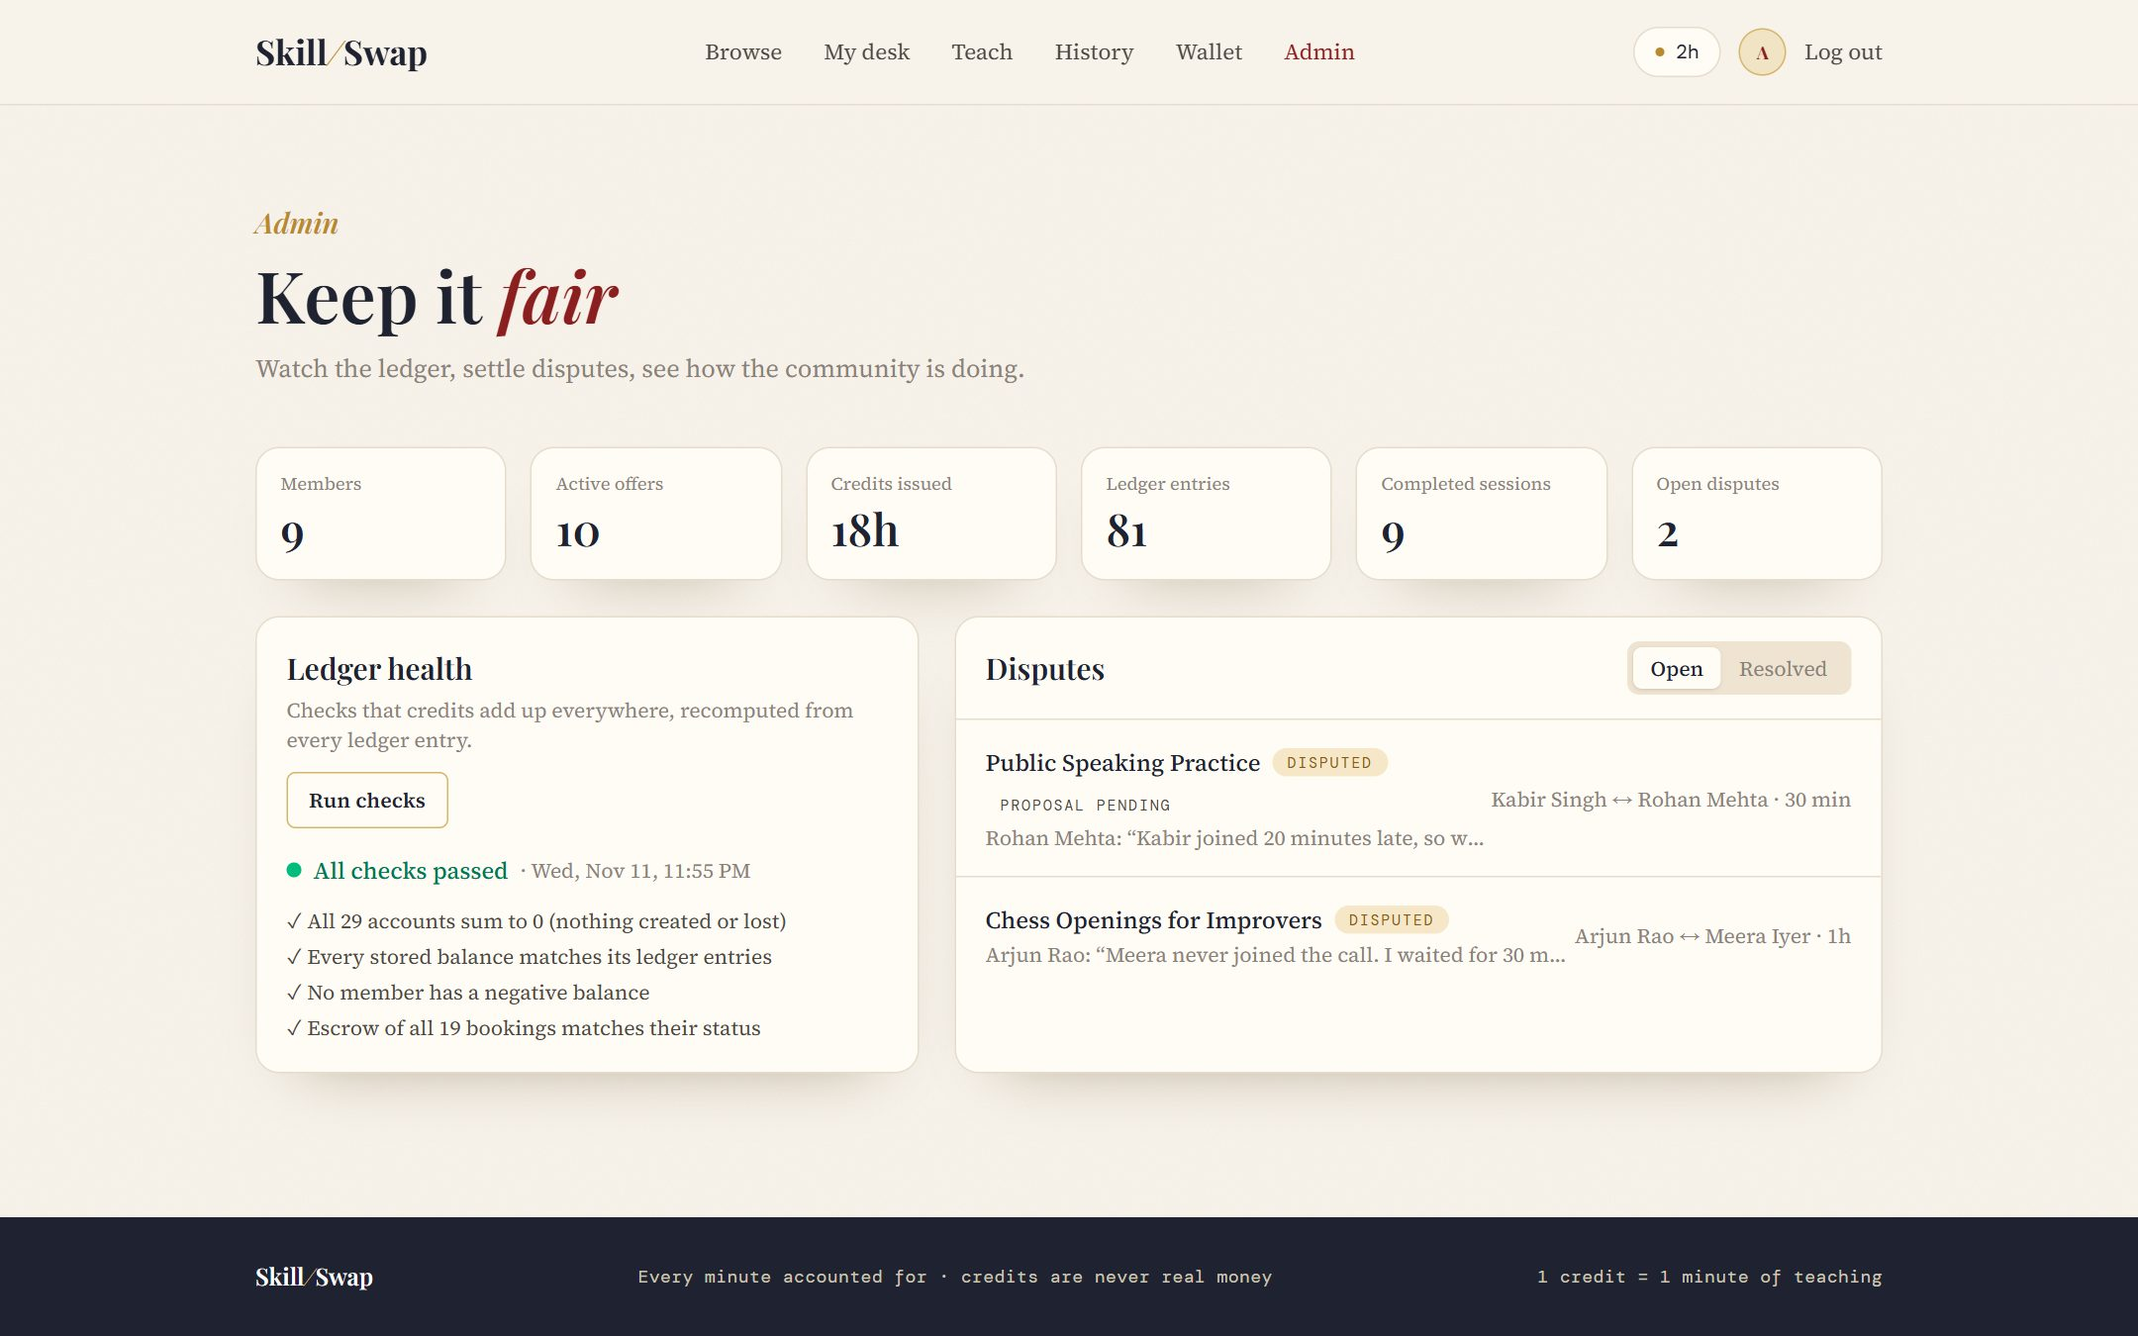
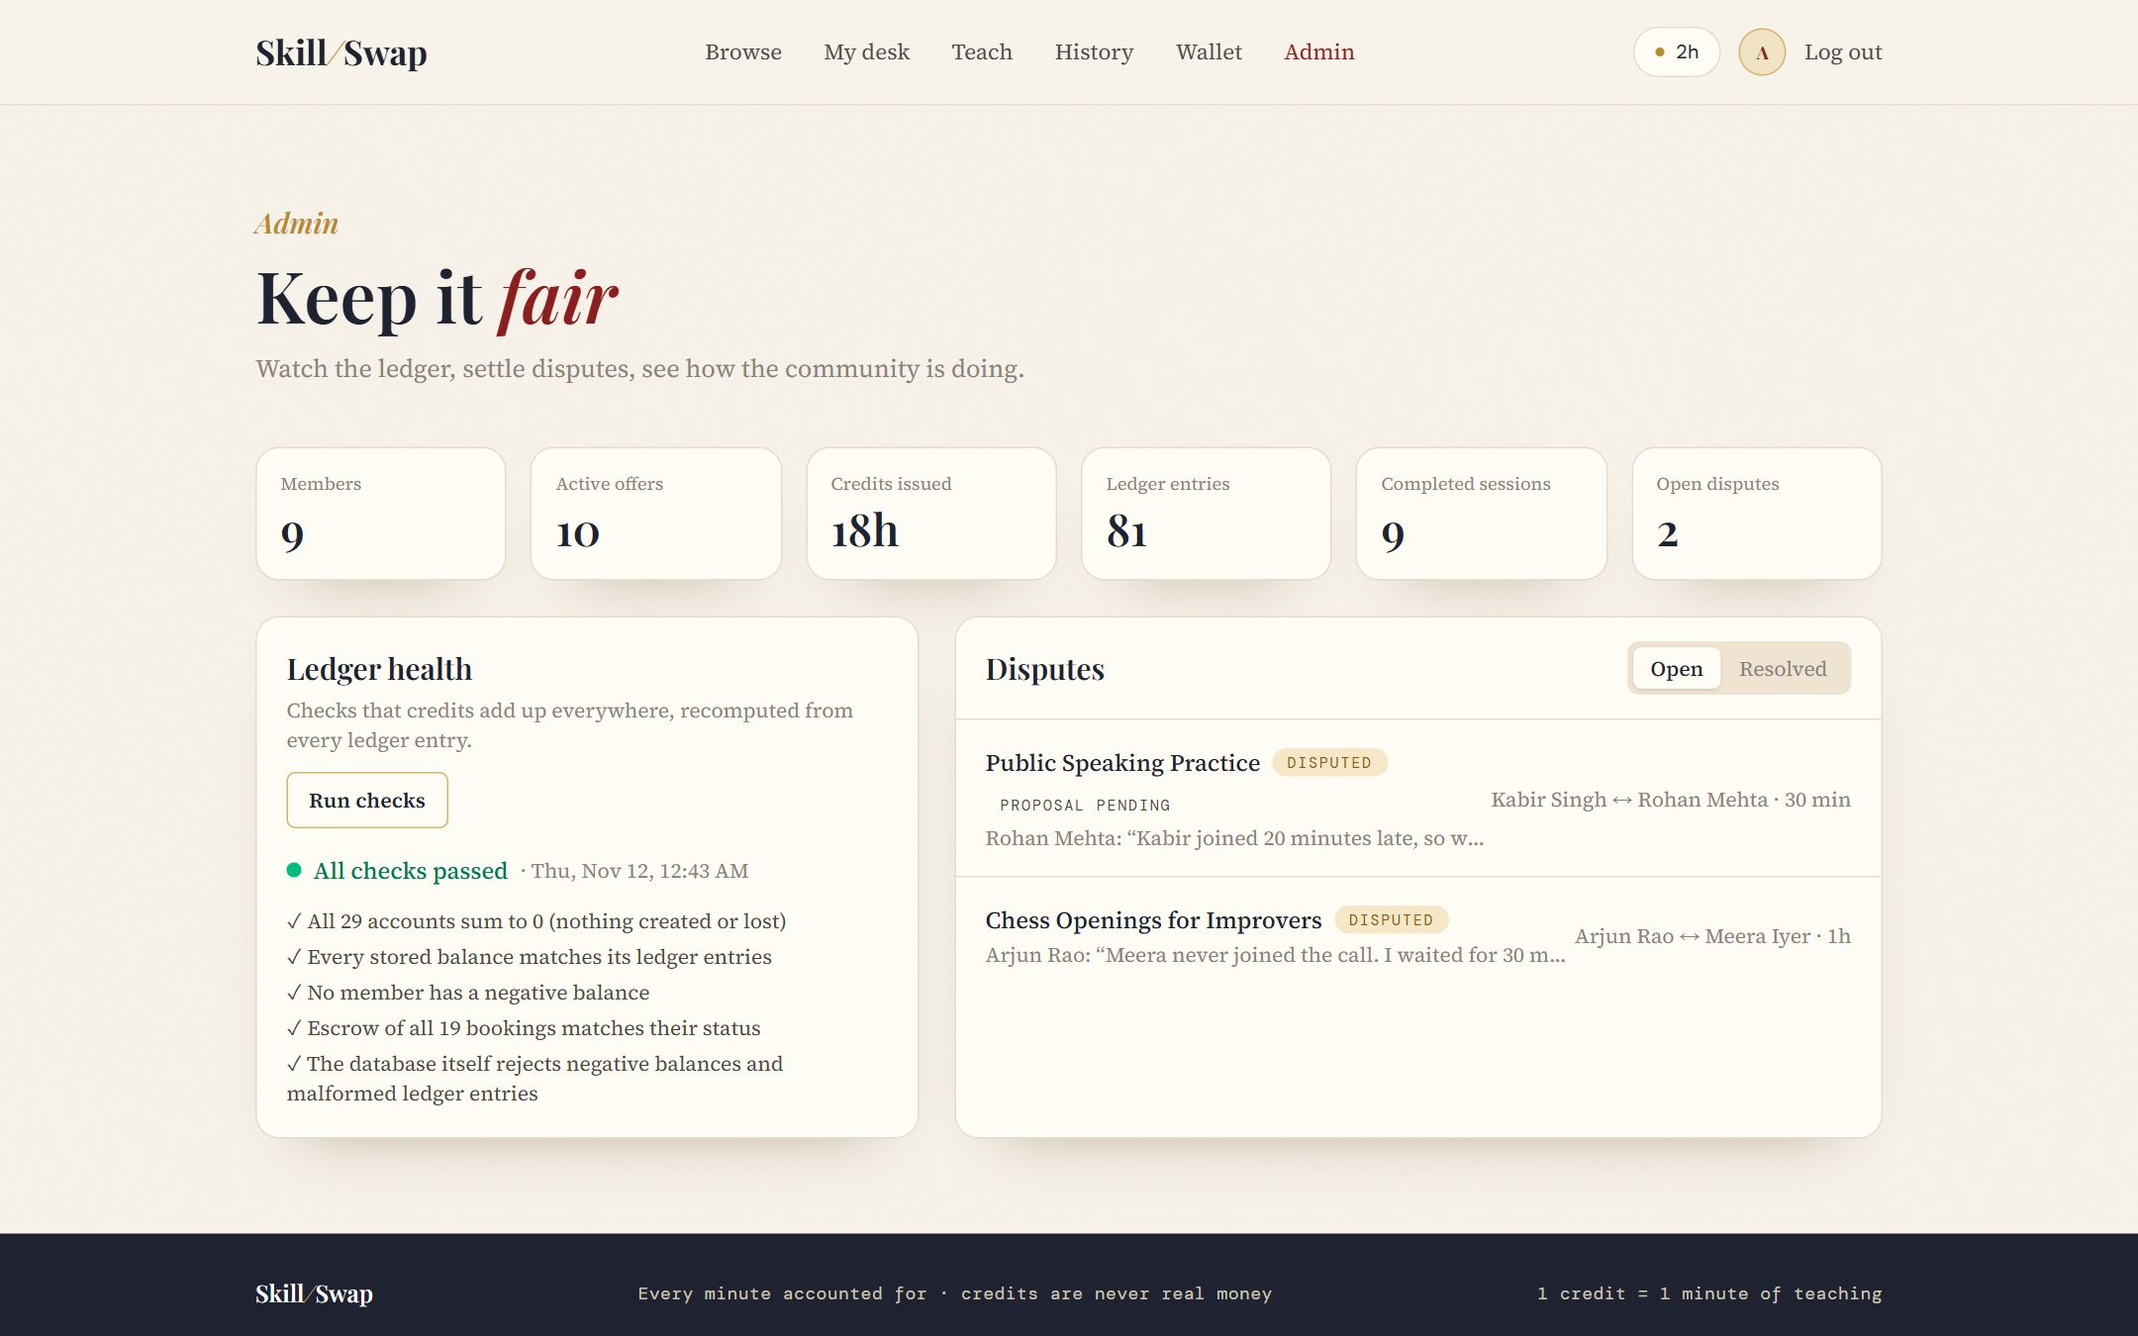
Enforce ledger rules at the database level with MongoDB schema validators

diff --git a/server/tests/dbRules.test.js b/server/tests/dbRules.test.js
@@ -1,0 +1,86 @@
+import mongoose from 'mongoose';
+import { describe, expect, it } from 'vitest';
+import { applyDbRules, checkDbRules } from '../src/dbRules.js';
+import { Account } from '../src/models/index.js';
+import { fullHealthReport } from '../src/services/invariants.js';
+import { MINT, postTransaction, userAccount } from '../src/services/ledger.js';
+
+// These tests use the raw MongoDB driver, skipping Mongoose and all of our
+// app's checks, to prove the DATABASE refuses bad data on its own.
+const db = () => mongoose.connection.db;
+const accounts = () => db().collection('accounts');
+const entries = () => db().collection('ledgerentries');
+
+const VALIDATION_FAILED = { code: 121 }; // MongoDB "Document failed validation"
+
+function entry(overrides = {}) {
+  return { txKey: 'tx:1', type: 'SIGNUP_GRANT', account: 'user:a', amount: 60, createdAt: new Date(), ...overrides };
+}
+
+describe('database-level rules', () => {
+  it('are installed on both collections', async () => {
+    expect(await checkDbRules()).toEqual({ ok: true, collections: { accounts: true, ledgerentries: true } });
+  });
+
+  it('refuse a negative user or escrow balance, even written directly', async () => {
+    await expect(accounts().insertOne({ _id: 'user:a', balance: -5 })).rejects.toMatchObject(VALIDATION_FAILED);
+    await expect(accounts().insertOne({ _id: 'escrow:b', balance: -1 })).rejects.toMatchObject(VALIDATION_FAILED);
+  });
+
+  it('refuse an update that would push a balance below zero', async () => {
+    await accounts().insertOne({ _id: 'user:a', balance: 10 });
+    await expect(accounts().updateOne({ _id: 'user:a' }, { $inc: { balance: -11 } })).rejects.toMatchObject(VALIDATION_FAILED);
+    expect((await accounts().findOne({ _id: 'user:a' })).balance).toBe(10);
+  });
+
+  it('allow the mint to go negative', async () => {
+    await accounts().insertOne({ _id: MINT, balance: -120 });
+    expect((await accounts().findOne({ _id: MINT })).balance).toBe(-120);
+  });
+
+  it('refuse balances that are not whole minutes, and unknown account names', async () => {
+    await expect(accounts().insertOne({ _id: 'user:a', balance: 1.5 })).rejects.toMatchObject(VALIDATION_FAILED);
+    await expect(accounts().insertOne({ _id: 'wallet:a', balance: 5 })).rejects.toMatchObject(VALIDATION_FAILED);
+  });
+
+  it('refuse malformed ledger entries', async () => {
+    await expect(entries().insertOne(entry({ amount: 0 }))).rejects.toMatchObject(VALIDATION_FAILED);
+    await expect(entries().insertOne(entry({ amount: 2.5 }))).rejects.toMatchObject(VALIDATION_FAILED);
+    await expect(entries().insertOne(entry({ amount: '60' }))).rejects.toMatchObject(VALIDATION_FAILED);
+    await expect(entries().insertOne(entry({ type: 'FREE_MONEY' }))).rejects.toMatchObject(VALIDATION_FAILED);
+    await expect(entries().insertOne(entry({ account: 'nobody' }))).rejects.toMatchObject(VALIDATION_FAILED);
+    const { txKey, ...noKey } = entry();
+    await expect(entries().insertOne(noKey)).rejects.toMatchObject(VALIDATION_FAILED);
+    expect(await entries().countDocuments()).toBe(0);
+  });
+
+  it('accept everything the app writes normally', async () => {
+    const alice = userAccount('alice');
+    await postTransaction({ key: 'grant:alice', type: 'SIGNUP_GRANT', legs: [{ account: MINT, amount: -120 }, { account: alice, amount: 120 }] });
+    expect(await entries().countDocuments()).toBe(2);
+    expect((await accounts().findOne({ _id: alice })).balance).toBe(120);
+  });
+
+  it('are added to existing collections that were created without them', async () => {
+    await db().command({ collMod: 'accounts', validator: {} });
+    expect((await checkDbRules()).collections.accounts).toBe(false);
+
+    await applyDbRules();
+    expect((await checkDbRules()).ok).toBe(true);
+    await expect(accounts().insertOne({ _id: 'user:a', balance: -5 })).rejects.toMatchObject(VALIDATION_FAILED);
+  });
+
+  it('are installed even if Mongoose creates the collection at the same moment', async () => {
+    // On a brand-new database Mongoose creates collections by itself while
+    // connecting, racing with applyDbRules. The rules must still end up on.
+    await accounts().drop();
+    await Promise.all([Account.createCollection(), applyDbRules()]);
+    expect((await checkDbRules()).ok).toBe(true);
+  });
+
+  it('show up in the admin health report', async () => {
+    const report = await fullHealthReport();
+    expect(report.ok).toBe(true);
+    expect(report.dbRules.ok).toBe(true);
+  });
+});

diff --git a/server/src/dbRules.js b/server/src/dbRules.js
@@ -1,0 +1,79 @@
+import mongoose from 'mongoose';
+import { LEDGER_TYPES } from './models/LedgerEntry.js';
+
+/**
+ * Rules the DATABASE itself enforces, on top of the checks in our code.
+ *
+ * Mongoose schemas only protect writes that go through this app. These
+ * MongoDB "schema validators" ($jsonSchema) protect every write, even one
+ * made directly in the database (Atlas UI, a script, a bug elsewhere).
+ * A write that breaks a rule fails with error code 121.
+ *
+ * Note: validators check what a document LOOKS like. They can't forbid
+ * changing or deleting a valid ledger entry; that is handled by the app
+ * (append-only hooks) and caught by the invariant checks.
+ */
+const WHOLE_NUMBER = ['int', 'long'];
+
+export const DB_RULES = {
+  // Account balances: whole minutes, never negative (except the mint, whose
+  // balance is minus everything ever issued).
+  accounts: {
+    $jsonSchema: {
+      bsonType: 'object',
+      required: ['_id', 'balance'],
+      properties: {
+        _id: { bsonType: 'string', pattern: '^(mint|user:.+|escrow:.+)$' },
+        balance: { bsonType: WHOLE_NUMBER },
+      },
+      anyOf: [{ properties: { _id: { enum: ['mint'] } } }, { properties: { balance: { minimum: 0 } } }],
+    },
+  },
+  // Ledger entries: a known type, a valid account, a whole non-zero amount.
+  ledgerentries: {
+    $jsonSchema: {
+      bsonType: 'object',
+      required: ['txKey', 'type', 'account', 'amount', 'createdAt'],
+      properties: {
+        txKey: { bsonType: 'string', minLength: 1 },
+        type: { enum: LEDGER_TYPES },
+        account: { bsonType: 'string', pattern: '^(mint|user:.+|escrow:.+)$' },
+        amount: { bsonType: WHOLE_NUMBER, not: { enum: [0] } },
+        createdAt: { bsonType: 'date' },
+      },
+    },
+  },
+};
+
+const OPTIONS = { validationLevel: 'strict', validationAction: 'error' };
+
+/**
+ * Install the rules. New collections are created with them; existing ones
+ * are updated with collMod. collMod needs a database user with admin rights
+ * on the database (e.g. Atlas "Atlas admin"); without them we log a warning
+ * and the app keeps running with its own checks.
+ */
+export async function applyDbRules(db = mongoose.connection.db) {
+  for (const [name, validator] of Object.entries(DB_RULES)) {
+    try {
+      try {
+        await db.createCollection(name, { validator, ...OPTIONS });
+      } catch (err) {
+        // 48 = the collection already exists (from an earlier run, or Mongoose
+        // created it a moment ago while connecting): add the rules to it.
+        if (err.code !== 48) throw err;
+        await db.command({ collMod: name, validator, ...OPTIONS });
+      }
+    } catch (err) {
+      console.warn(`Could not install database rules on "${name}": ${err.message}`);
+    }
+  }
+}
+
+/** Which collections currently have the rules installed (for the admin check). */
+export async function checkDbRules(db = mongoose.connection.db) {
+  const infos = await db.listCollections({ name: { $in: Object.keys(DB_RULES) } }).toArray();
+  const active = Object.fromEntries(Object.keys(DB_RULES).map((name) => [name, false]));
+  for (const info of infos) active[info.name] = Boolean(info.options?.validator?.$jsonSchema);
+  return { ok: Object.values(active).every(Boolean), collections: active };
+}

diff --git a/server/src/services/invariants.js b/server/src/services/invariants.js
@@ -1,5 +1,6 @@
 import { Booking, Dispute, LedgerEntry, Offer, User } from '../models/index.js';
 import { OPEN_BOOKING_STATUSES } from '../models/Booking.js';
+import { checkDbRules } from '../dbRules.js';
 import { MINT, checkInvariants, escrowAccount, getBalance } from './ledger.js';
 
 /**
@@ -25,8 +26,10 @@ export async function checkEscrow() {
 }
 
 export async function fullHealthReport() {
-  const [ledger, escrow] = await Promise.all([checkInvariants(), checkEscrow()]);
-  return { ok: ledger.ok && escrow.ok, checkedAt: new Date(), ledger, escrow };
+  const [ledger, escrow, dbRules] = await Promise.all([checkInvariants(), checkEscrow(), checkDbRules()]);
+  // dbRules is extra protection, reported separately: the data can be
+  // perfectly correct without it, so it doesn't change `ok`.
+  return { ok: ledger.ok && escrow.ok, checkedAt: new Date(), ledger, escrow, dbRules };
 }
 
 export async function platformStats() {

diff --git a/client/src/pages/Admin.jsx b/client/src/pages/Admin.jsx
@@ -33,6 +33,12 @@ function HealthCard() {
             <li>✓ Every stored balance matches its ledger entries</li>
             <li>✓ No member has a negative balance</li>
             <li>✓ Escrow of all {data.escrow.bookingsChecked} bookings matches their status</li>
+            {data.dbRules &&
+              (data.dbRules.ok ? (
+                <li>✓ The database itself rejects negative balances and malformed ledger entries</li>
+              ) : (
+                <li className="text-muted">○ Database-level rules aren&apos;t installed; the app&apos;s own checks still apply</li>
+              ))}
           </ul>
           {[...data.ledger.problems, ...data.escrow.problems].map((p) => (
             <p key={p} className="mt-2 rounded bg-rose-50 px-3 py-2 font-mono text-xs text-rose-700">

diff --git a/server/src/db.js b/server/src/db.js
@@ -1,9 +1,12 @@
 import mongoose from 'mongoose';
 import './models/index.js';
+import { applyDbRules } from './dbRules.js';
 
 // Build collections and indexes up front. Our safety guarantees depend on
 // unique indexes, and MongoDB transactions can't create them on the fly.
 export async function initModels() {
+  // Database-level rules first, so new collections are created with them.
+  await applyDbRules();
   await Promise.all(Object.values(mongoose.models).map((model) => model.init()));
 }
 

diff --git a/docs/DAILY_LOG.md b/docs/DAILY_LOG.md
@@ -119,3 +119,22 @@ All pages in the browser at desktop and phone width. Fixed: every menu link show
 - In the browser with two users in two tabs: join, wait, connect (WebRTC reported *connected*), attendance recorded, leave, rejoin.
 - **Real devices on the live site:** a phone on mobile data and a laptop on Wi-Fi saw and heard each other; the server recorded both joining at the same second and leaving a minute later. This connected directly, without a TURN relay.
 - Not yet tested: a strict network (office or college Wi-Fi) that blocks direct connections and needs a TURN relay.
+
+## Day 6: Rules the database enforces itself
+
+**Goal:** close the classic "MongoDB isn't strict enough for money" gap by moving key ledger rules from the app into the database.
+
+### Built
+- **Schema validators** (`server/src/dbRules.js`): MongoDB `$jsonSchema` rules on `accounts` (whole-minute balances, never negative except the mint, valid account names) and `ledgerentries` (known type, valid account, whole non-zero amount, required fields). A write that breaks them fails with error 121, even when it skips the app entirely.
+- Installed on startup: created with new collections, added to existing ones with `collMod`. Without permission for `collMod` the server logs a warning and keeps running.
+- **Admin health check** now reports whether the database rules are on.
+- README screenshots refreshed with the new design (7 pages).
+
+### Fixed while testing
+- On a brand-new database the accounts rule was silently missing: Mongoose creates collections by itself while connecting, so it could create `accounts` between our "does it exist?" check and our create. Now "already exists" falls back to `collMod`, with a test for the race.
+
+### Limits (on purpose)
+Validators check what a document looks like, not whether it was changed. Editing or deleting a valid ledger entry is still blocked by the app, not the database, and the invariant checks would detect it.
+
+### Tests: 78 passing
+10 new tests write straight to MongoDB with the raw driver (skipping Mongoose) and confirm the database refuses bad data, while everything the app writes normally is still accepted.

diff --git a/README.md b/README.md
@@ -57,6 +57,7 @@ Both confirm attendance      escrow:b1        −60
 | No double payouts on retry | Each transaction has a unique key (`settle:<bookingId>`) backed by a unique index |
 | No overdraft under concurrency | Balance check and subtraction are one atomic conditional update inside the transaction |
 | All or nothing | Ledger entries and the related status change commit in one MongoDB transaction |
+| Rules hold even outside the app | MongoDB schema validators (`$jsonSchema`) make the database itself reject negative balances, fractional or zero amounts and unknown entry types, even for writes that bypass the app |
 
 ### Race conditions handled (each one has a test)
 
@@ -157,7 +158,7 @@ Other members: `priya`, `daniel`, `kabir`, `sara`, `arjun` (all `@skillswap.test
 npm test
 ```
 
-68 tests run against a real MongoDB replica set started in memory:
+78 tests run against a real MongoDB replica set started in memory:
 
 - **Ledger:** balanced legs, integer amounts, idempotency under 10 simultaneous retries, overdraft protection under parallel spends, append-only enforcement, tamper detection
 - **Bookings:** escrow hold, five learners racing for one slot, rollback when credits are short, simultaneous confirmations settle once, all cancellation rules and races
@@ -165,6 +166,7 @@ npm test
 - **API and realtime:** full HTTP flow, validation, authorization, Socket.IO notifications and auth
 - **Video calls:** time window, access control, attendance maths, and real two-client signaling over Socket.IO
 - **Community:** taught counts, member picks, new offers, category filter, homepage stats and recent swaps
+- **Database rules:** raw writes that skip the app (negative balances, bad amounts, unknown types) are rejected by MongoDB itself, and the rules are installed on new and existing collections
 - **Demo data:** every scenario seeds correctly and leaves the ledger healthy
 
 ## API

diff --git a/docs/DEPLOYMENT.md b/docs/DEPLOYMENT.md
@@ -58,6 +58,15 @@ Every push to `main` redeploys automatically.
 - Put the live link at the top of the README (replace "_coming soon_").
 - Log in as `admin@skillswap.test` and click **Run checks** on the Admin page. It should say *All checks passed*.
 
+## Database-level rules
+
+When the server starts, it installs MongoDB schema validators on the `accounts` and `ledgerentries` collections, so the database itself rejects negative balances and malformed ledger entries (see [SPEC.md](SPEC.md)).
+
+- On a **new** database this works with any database user that can read and write.
+- Adding the rules to collections that **already exist** needs the `collMod` permission, which Atlas's *Read and write to any database* role doesn't include. If it's missing, the server logs `Could not install database rules…` and keeps running with the app's own checks.
+- To check: log in as the admin and click **Run checks**. The last line says whether the database rules are on.
+- To turn them on for an existing database: in Atlas → **Database Access**, edit the app's user and give it the **Atlas admin** role (or `dbAdmin` on the `skillswap` database), then restart the service on Render.
+
 ## Optional: a TURN relay for video calls
 
 Video calls connect the two browsers directly. On most home and mobile networks that just works using a free public STUN server. Some strict networks (offices, some colleges) block direct connections; for those, the call needs a **TURN relay**.

diff --git a/docs/SPEC.md b/docs/SPEC.md
@@ -32,6 +32,7 @@ Credits are fictional and never connected to real money.
 3. **Idempotent.** Each transaction has a unique key (e.g. `settle:<bookingId>`). Writing the same key twice is a no-op.
 4. **No overdraft.** Spending checks and subtracts the balance in a single atomic operation.
 5. **Atomic.** All legs of a transaction, plus any related document change (e.g. booking status), commit together or not at all (MongoDB transactions).
+6. **Enforced by the database too.** MongoDB schema validators reject, for every write including ones that bypass the app: a negative balance on any account except `mint`, amounts that are zero or not whole numbers, unknown entry types and malformed account names. (Validators check what a document looks like; they can't forbid editing a valid entry, so append-only stays an app rule, backed by the invariant checks.)
 
 ### Invariants (checked by tests and the admin endpoint)
 
